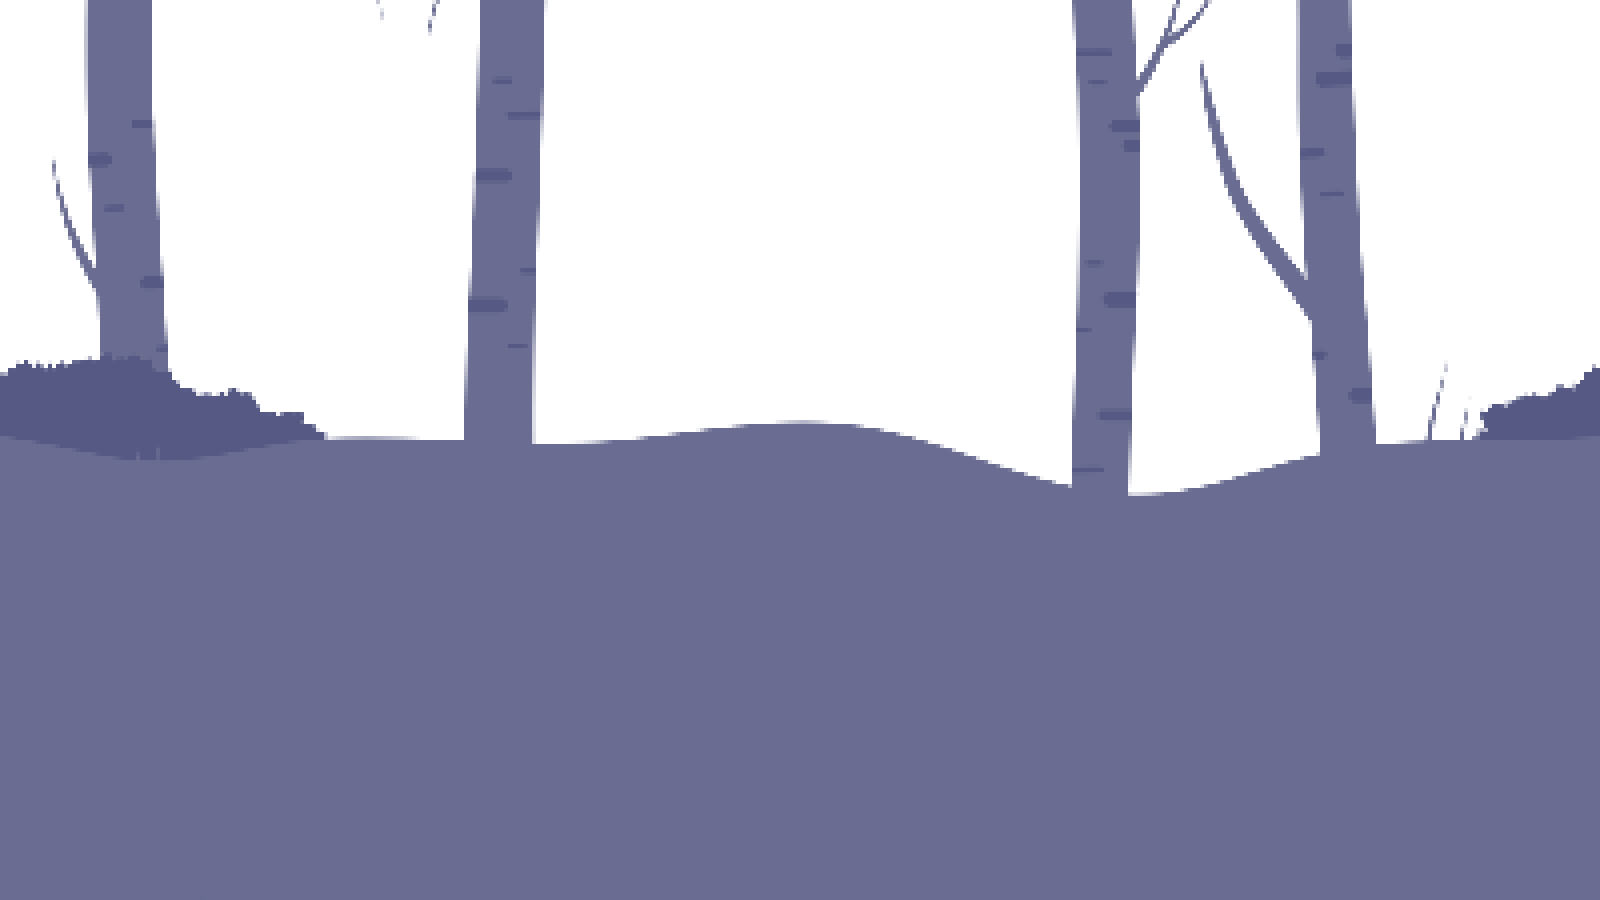
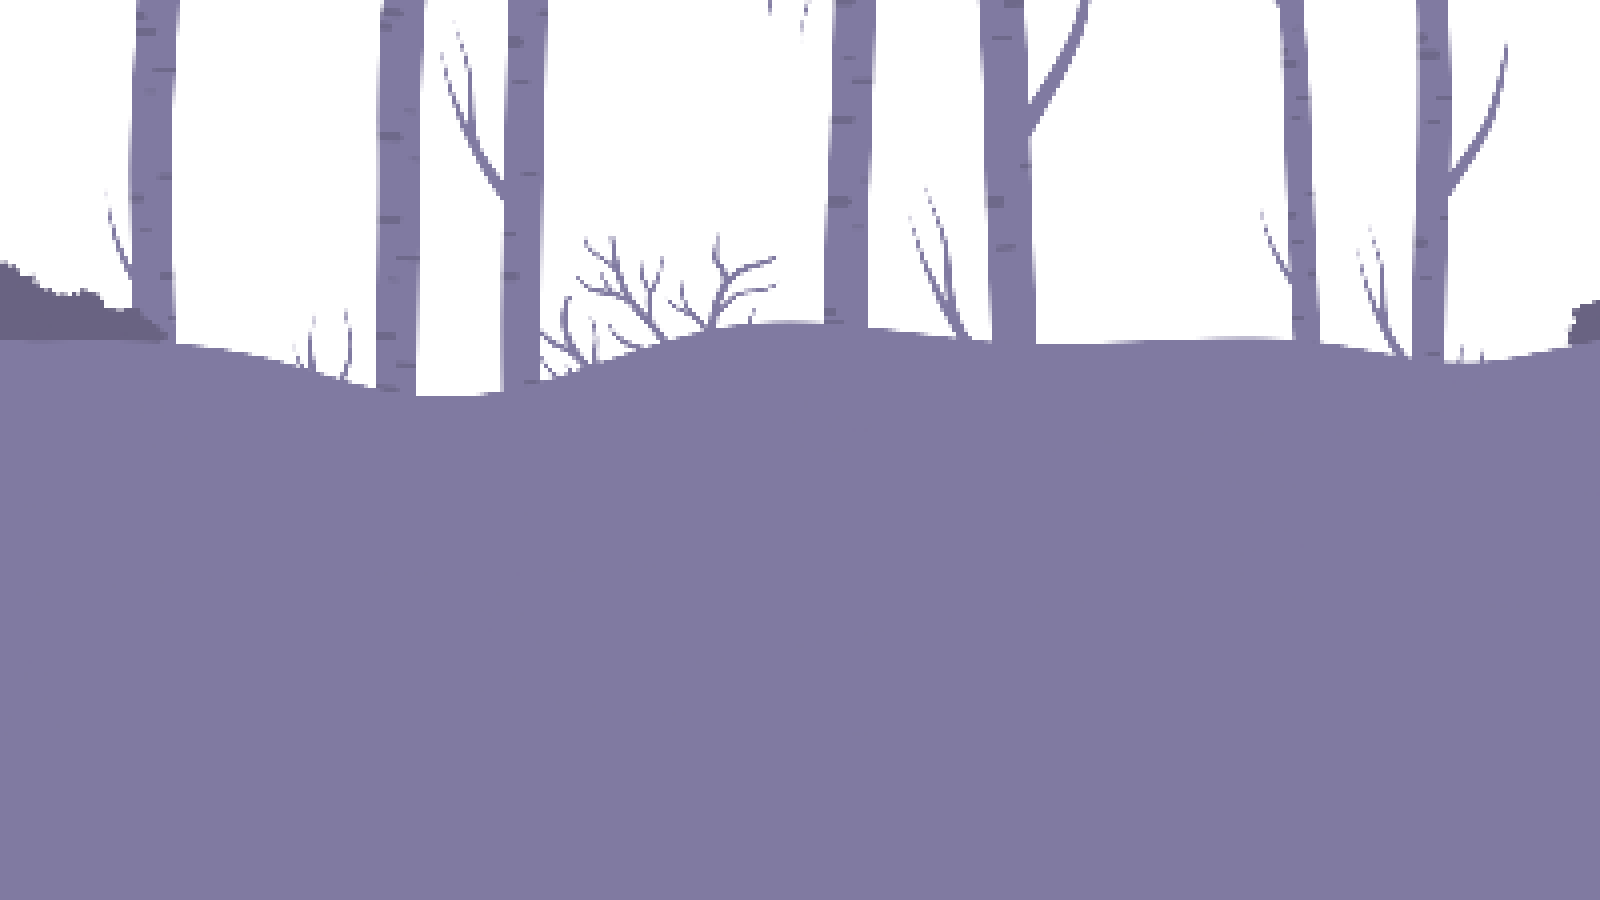
add assets and tree platforms

Changed region(s): [[0.0, 0.0, 1.0, 0.56], [0.9375, 0.0622, 0.9688, 0.0933]]

diff --git a/DM-Portfolio/src/components/GameCanvas.vue b/DM-Portfolio/src/components/GameCanvas.vue
@@ -11,6 +11,7 @@ import layer1 from "@/assets/images/game/background/layer1.png";
 import layer2 from "@/assets/images/game/background/layer2.png";
 import layer3 from "@/assets/images/game/background/layer3.png";
 import layer4 from "@/assets/images/game/background/layer4.png";
+import layer5 from "@/assets/images/game/background/layer5.png";
 import mist1 from "@/assets/images/game/background/mist1.png";
 import mist2 from "@/assets/images/game/background/mist2.png";
 import mist3 from "@/assets/images/game/background/mist3.png";
@@ -40,7 +41,9 @@ import log from "@/assets/images/game/platforms/log.png"
 
 import tree1 from "@/assets/images/game/platforms/trees/tree1.png"
 import tree2 from "@/assets/images/game/platforms/trees/tree2.png"
-import tree3 from "@/assets/images/game/platforms/trees/tree3.png"
+import leaves1 from "@/assets/images/game/platforms/trees/leaves1.png"
+import leaves2 from "@/assets/images/game/platforms/trees/leaves2.png"
+
 
 import bearTrap from "@/assets/images/game/obstacles/bear-trap.png"
 import spike from "@/assets/images/game/obstacles/spike.png"
@@ -294,12 +297,14 @@ class MainScene extends Phaser.Scene {
     this.load.image("mist2", mist2);
     this.load.image("layer3", layer3);
     this.load.image("mist3", mist3);
-    this.load.image("ground", ground);
     this.load.image("layer4", layer4);
+    this.load.image("ground", ground);
+    this.load.image("layer5", layer5);
     this.load.image("log", log);
     this.load.image("tree1", tree1);
     this.load.image("tree2", tree2);
-    this.load.image("tree3", tree3);
+    this.load.image("leaves1", leaves1);
+    this.load.image("leaves2", leaves2);
     this.load.image("bearTrap", bearTrap);
     this.load.image("spike", spike);
     this.load.image("hole", hole);
@@ -440,13 +445,19 @@ class MainScene extends Phaser.Scene {
       .tileSprite(0, 0, width, height, "mist3")
       .setOrigin(0)
       .setScrollFactor(0)
-      .setDepth(8);
+      .setDepth(6);
 
     this.layer4 = this.add
       .tileSprite(0, 0, width, height, "layer4")
       .setOrigin(0)
       .setScrollFactor(0)
-      .setDepth(9);
+      .setDepth(8);
+
+    this.layer5 = this.add
+      .tileSprite(0, 0, width, height, "layer5")
+      .setOrigin(0)
+      .setScrollFactor(0)
+      .setDepth(11);
 
     // --- WORLD ---
     const WORLD_WIDTH = 5000;
@@ -454,7 +465,7 @@ class MainScene extends Phaser.Scene {
     this.physics.world.gravity.y = 1000;
 
     // --- GROUND ---
-    const groundHeight = 200;
+    const groundHeight = 250;
     const groundY = height - groundHeight
 
     this.ground = this.physics.add.staticImage(
@@ -472,16 +483,16 @@ class MainScene extends Phaser.Scene {
     const obstacleData = [
 
       // bear traps
-      { type: "bearTrap", shape: "rectangle", x: 700, y: height - 220, scale: 0.25, sizeX: 100, sizeY: 1, offsetX: 20, offsetY: 60 },
-      { type: "bearTrap", shape: "rectangle", x: 3500, y: height - 220, scale: 0.25, sizeX: 100, sizeY: 1, offsetX: 20, offsetY: 60 },
+      { type: "bearTrap", shape: "rectangle", x: 700, y: height - 250, scale: 0.25, sizeX: 100, sizeY: 1, offsetX: 20, offsetY: 60 },
+      { type: "bearTrap", shape: "rectangle", x: 3500, y: height - 250, scale: 0.25, sizeX: 100, sizeY: 1, offsetX: 20, offsetY: 60 },
 
       // holes
-      { type: "hole", shape: "rectangle", x: 1250, y: height - 210, scale: 0.4, sizeX: 105, sizeY: 20, offsetX: 155, offsetY: 90 },
+      { type: "hole", shape: "rectangle", x: 1250, y: height - 240, scale: 0.4, sizeX: 105, sizeY: 20, offsetX: 155, offsetY: 90 },
     ];
 
     obstacleData.forEach(s => {
       const obj = this.physics.add.staticSprite(s.x, s.y, s.type)
-        .setDepth(6)
+        .setDepth(9)
         .setScale(s.scale);
 
       obj.refreshBody();
@@ -592,8 +603,8 @@ class MainScene extends Phaser.Scene {
 
     // --- PLAYER ---
     this.player = this.physics.add
-      .sprite(200, height - 295, "fox_idle")
-      .setDepth(7);
+      .sprite(200, height - 335, "fox_idle")
+      .setDepth(10);
     this.player.setScale(4);
     this.player.play('idle')
     this.player.body.setSize(22, 20);
@@ -656,33 +667,43 @@ class MainScene extends Phaser.Scene {
     // --- PLATFORMS ---
 
     // -- TREES --
-    this.tree = this.physics.add.staticGroup();
-
+    this.tree = this.add.group();
     const treeData = [
-      { x: 2600, y: height - 330, scale: .43, color: "tree3", flip: false, offsetX: 0, depth: 6 },
-      // { x: 900, y: height - 480, scale: .43, color: "tree2", flip: true, offsetX: 255, depth: 5 },
-      // { x: 3800, y: height - 290, scale: .55, color: "tree2", flip: false, offsetX: 0, depth: 6 },
+      { x: 600, y: height - 740, scale: .75, color: "tree1", flip: true },
+    ];
+    treeData.forEach(s => {
+      const tree = this.add.sprite(s.x, s.y, s.color)
+        .setDepth(7)
+        .setScale(s.scale)
+      tree.setFlipX(s.flip);
+      this.tree.add(tree);
+    });   
+
+    // -- LEAVES --
+    this.leaves = this.physics.add.staticGroup();
+
+    const leavesData = [
+      { x: 480, y: height - 450, scale: .4, color: "leaves2", flip: false, sizeX: 350, sizeY: 1, offsetX: 75, offsetY: 80 },
+      { x: 860, y: height - 655, scale: .4, color: "leaves1", flip: false, sizeX: 350, sizeY: 1, offsetX: 75, offsetY: 80 },
     ];
 
 
-    treeData.forEach(s => {
-      const treeZone = this.physics.add.staticSprite(s.x, s.y, s.color)
-        .setDepth(s.depth)
+    leavesData.forEach(s => {
+      const leavesZone = this.physics.add.staticSprite(s.x, s.y, s.color)
+        .setDepth(8)
         .setScale(s.scale)
 
-      treeZone.refreshBody();
+      leavesZone.refreshBody();
 
-      const offsetX = s.flip ? s.offsetX : s.offsetX;
+      leavesZone.body.setSize(s.sizeX, s.sizeY);
+      leavesZone.body.setOffset(s.offsetX, s.offsetY);
+      leavesZone.setFlipX(s.flip);
 
-      treeZone.body.setSize(225, 1);
-      treeZone.body.setOffset(offsetX, 60);
-      treeZone.setFlipX(s.flip);
-
-      this.tree.add(treeZone);
+      this.leaves.add(leavesZone);
     });   
-    this.treeCollider = this.physics.add.collider(
+    this.leavesCollider = this.physics.add.collider(
       this.player,
-      this.tree,
+      this.leaves,
       null,
       (player, platform) => {
         return player.body.velocity.y >= 0;
@@ -690,6 +711,7 @@ class MainScene extends Phaser.Scene {
       this
     )
   }
+
 
   update() {
     if (this.isDead) return;
@@ -762,7 +784,7 @@ class MainScene extends Phaser.Scene {
       // --- JUMP ---
       const isJumpPressed = Phaser.Input.Keyboard.JustDown(this.cursors.up);
       if (isJumpPressed && onGround) {
-        this.player.setVelocityY(-600);
+        this.player.setVelocityY(-680);
       }
     }
 
@@ -779,13 +801,14 @@ class MainScene extends Phaser.Scene {
     // --- PARALLAX ---
     const cam = this.cameras.main;
     
-    this.layer1.tilePositionX = cam.scrollX * 0.2;
-    this.mist1.tilePositionX = cam.scrollX * 0.4;
-    this.layer2.tilePositionX = cam.scrollX * 0.6;
-    this.mist2.tilePositionX = cam.scrollX * 0.8;
-    this.layer3.tilePositionX = cam.scrollX * 1.0;
-    this.mist3.tilePositionX = cam.scrollX * 1.15;
-    this.layer4.tilePositionX = cam.scrollX * 1.25;
+    this.layer1.tilePositionX = cam.scrollX * 0.15;
+    this.mist1.tilePositionX = cam.scrollX * 0.3;
+    this.layer2.tilePositionX = cam.scrollX * 0.45;
+    this.mist2.tilePositionX = cam.scrollX * 0.6;
+    this.layer3.tilePositionX = cam.scrollX * 0.75;
+    this.mist3.tilePositionX = cam.scrollX * 0.9;
+    this.layer4.tilePositionX = cam.scrollX * 1;
+    this.layer5.tilePositionX = cam.scrollX * 1.15;
 
     // --- ANIMATION ---
     let anim;
